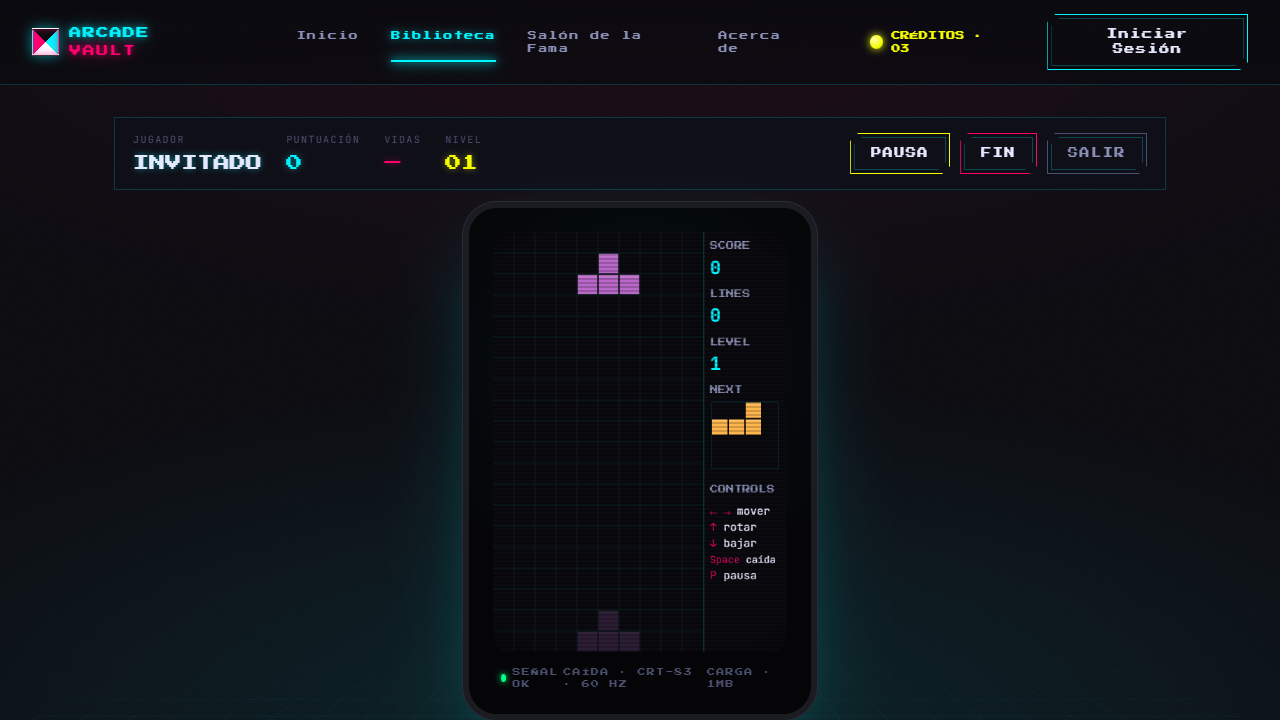
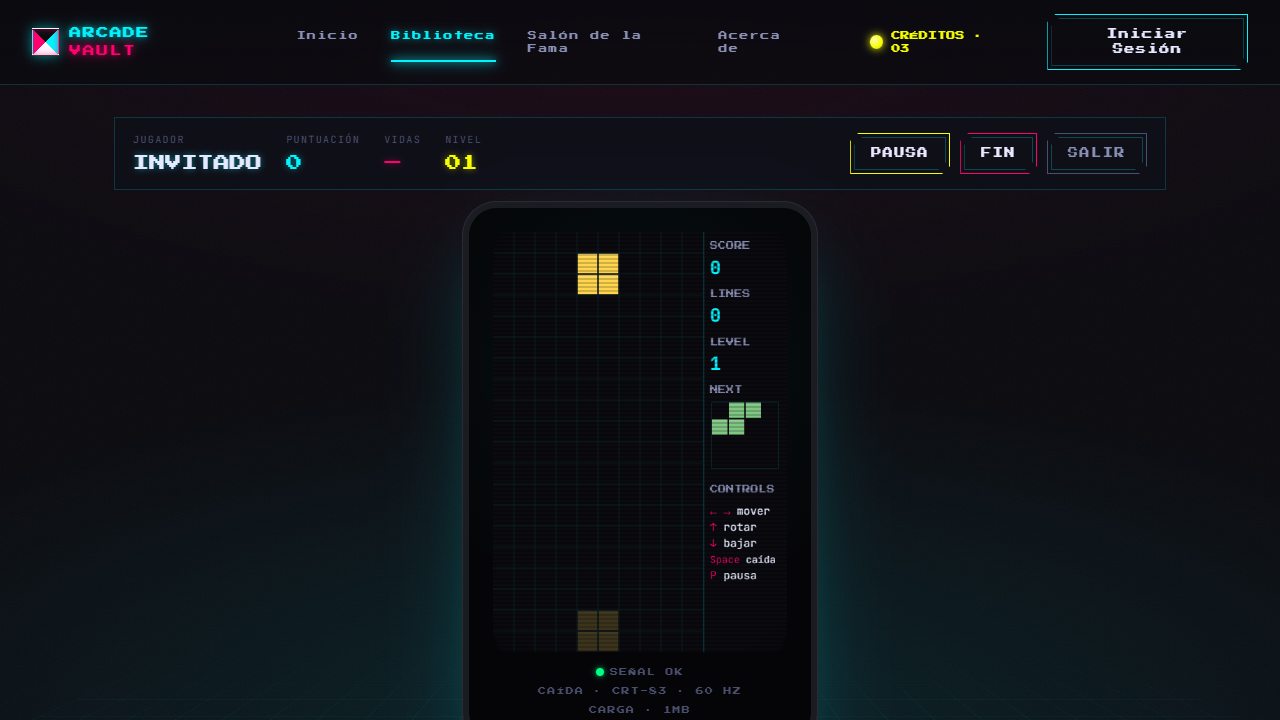
fix(arcade): stack the CRT footer by CRT width and block scroll during the game-over delay

Changed region(s): [[0.3438, 0.825, 0.6562, 1.0], [0.4375, 0.3361, 0.5, 0.4278], [0.5312, 0.55, 0.5938, 0.6111]]

diff --git a/features/player/components/CrtScreen.tsx b/features/player/components/CrtScreen.tsx
@@ -11,15 +11,17 @@ type Props = {
   screenStyle?: CSSProperties;
 };
 
-// Below the player's mobile breakpoint (720px, as .av-player in globals.css) the footer wraps
-// into centered lines with room between them instead of overlapping; desktop keeps the prototype.
-const BOTTOM_MOBILE = "max-[720px]:flex-wrap max-[720px]:justify-center max-[720px]:gap-x-3 max-[720px]:gap-y-1.5 max-[720px]:leading-[1.6]";
-const BOTTOM_ITEM_MOBILE = "max-[720px]:whitespace-nowrap";
+// When the CRT itself is narrow (phones, or a tall real game such as Caída on desktop) the footer
+// wraps into centered lines with room between them instead of crowding; wide CRTs keep the
+// prototype layout. It is a container query on .crt, so it follows the CRT width, not the viewport.
+// Class names must stay literal so Tailwind can find them.
+const BOTTOM_NARROW = "@max-[560px]:flex-wrap @max-[560px]:justify-center @max-[560px]:gap-x-3 @max-[560px]:gap-y-1.5 @max-[560px]:leading-[1.6]";
+const BOTTOM_ITEM_NARROW = "@max-[560px]:whitespace-nowrap";
 
 /** CRT frame; shows the fake animated arena unless a real game is passed as children. */
 export function CrtScreen({ title, paused, children, frameStyle, screenStyle }: Props) {
   return (
-    <div className="crt" style={frameStyle}>
+    <div className="crt @container" style={frameStyle}>
       <div className="crt-screen" style={screenStyle}>
         {children ?? (
           <div className="game-arena">
@@ -39,10 +41,10 @@ export function CrtScreen({ title, paused, children, frameStyle, screenStyle }: 
           </div>
         )}
       </div>
-      <div className={"crt-bottom " + BOTTOM_MOBILE}>
-        <span className={"led " + BOTTOM_ITEM_MOBILE}>SEÑAL OK</span>
-        <span className={BOTTOM_ITEM_MOBILE}>{title} · CRT-83 · 60 HZ</span>
-        <span className={BOTTOM_ITEM_MOBILE}>CARGA · 1MB</span>
+      <div className={"crt-bottom " + BOTTOM_NARROW}>
+        <span className={"led " + BOTTOM_ITEM_NARROW}>SEÑAL OK</span>
+        <span className={BOTTOM_ITEM_NARROW}>{title} · CRT-83 · 60 HZ</span>
+        <span className={BOTTOM_ITEM_NARROW}>CARGA · 1MB</span>
       </div>
     </div>
   );

diff --git a/features/arcade/components/ArcadePlayer.tsx b/features/arcade/components/ArcadePlayer.tsx
@@ -4,6 +4,7 @@ import { useRouter } from "next/navigation";
 import { useEffect, useReducer, useState, useSyncExternalStore } from "react";
 import { arcadeArenaFit, DEFAULT_ARENA_SIZE, type ArenaSize } from "@/features/arcade/lib/arena-fit";
 import { arcadePlayReducer, initialArcadePlayState, isStopped } from "@/features/arcade/lib/play-state";
+import { useBlockGameKeys } from "@/features/arcade/lib/use-keys";
 import type { ArcadeCanvas, GameStats } from "@/features/arcade/model/arcade-game";
 import type { Game } from "@/features/games/model/game";
 import { submitScore } from "@/features/leaderboard/actions/submit-score";
@@ -66,6 +67,9 @@ export function ArcadePlayer({ game, Canvas, arena = DEFAULT_ARENA_SIZE }: Arcad
     const timer = window.setTimeout(() => dispatch({ type: "revealGameOver" }), GAME_OVER_MODAL_DELAY_MS);
     return () => window.clearTimeout(timer);
   }, [state.gameOverPending]);
+
+  // During that delay the canvas no longer reads the keyboard, so keep arrows/space from scrolling.
+  useBlockGameKeys(state.gameOverPending);
 
   const restart = () => {
     dispatch({ type: "restart" });

diff --git a/features/arcade/lib/use-keys.ts b/features/arcade/lib/use-keys.ts
@@ -27,6 +27,22 @@ function createKeyStore() {
 }
 
 /**
+ * While enabled, keeps the arrows and space from scrolling the page without passing them to any
+ * game (e.g. during the game-over delay, when the canvas no longer reads the keyboard).
+ * Ignores events typed into inputs.
+ */
+export function useBlockGameKeys(enabled: boolean) {
+  useEffect(() => {
+    if (!enabled) return;
+    const listener = (e: KeyboardEvent) => {
+      if (!isTextInput(e.target) && GAME_KEYS.has(e.code)) e.preventDefault();
+    };
+    window.addEventListener("keydown", listener);
+    return () => window.removeEventListener("keydown", listener);
+  }, [enabled]);
+}
+
+/**
  * Calls `onKeyDown(code)` on every keydown on window while enabled, including the OS auto-repeat
  * of a held key (games that move one step per event). Ignores events typed into inputs and
  * prevents the page from scrolling with the arrows and space.

diff --git a/docs/evidence/spec-07/README.md b/docs/evidence/spec-07/README.md
@@ -23,7 +23,14 @@ Supabase: the `falling-blocks` row has `max_score` 10 000 000 and `sort_order` 2
 
 ## Findings
 
-1. **The CRT footer crowds on the narrow Caída CRT.** At 1440 px its items run together ("SEÑAL OK CAÍDA · CRT-83 · 60 HZ CARGA · 1MB"). At 1280 px they wrap into ragged two-line blocks. The mobile stacking rule depends on the viewport width, not on the CRT width. Introduced by this spec.
-2. **Space scrolls the page during the 1.5 s game-over delay.** The keyboard listener is disabled once the game ends, so Space and the arrows reach the page (see the game-over capture). This also applies to Asteroides.
+1. ✅ **Fixed in this PR.** **The CRT footer crowded on the narrow Caída CRT.** At 1440 px its items run together ("SEÑAL OK CAÍDA · CRT-83 · 60 HZ CARGA · 1MB"). At 1280 px they wrap into ragged two-line blocks. The mobile stacking rule depends on the viewport width, not on the CRT width. Introduced by this spec.
+2. ✅ **Fixed in this PR.** **Space scrolled the page during the 1.5 s game-over delay.** The keyboard listener is disabled once the game ends, so Space and the arrows reach the page (see the game-over capture). This also applies to Asteroides.
 3. **"Í" renders as a wrong glyph in the pixel font** ("CAÍDA" shows as "CA‡DA" in the Salón tab, the detail title and the CRT footer). The pinned Press Start 2P subset lacks the glyph. This is pre-existing: the catalog title already rendered this way before this spec.
 4. When FIN is pressed during play, the canvas also shows "PAUSA" behind the modal, because it only receives `paused`. This is cosmetic.
+
+## Fixes verified (Playwright 10/10)
+
+- **Footer:** `.crt` is now a container (`@container`), and the footer stacks below 560 px of **CRT** width (`@max-[560px]:`) instead of viewport width.
+  - Caída: 2 rows at 1440 px, 3 rows at 1280 and 390 px, with no overlap ([`player/desktop-1440/app.png`](player/desktop-1440/app.png), [`player/desktop-1280/app.png`](player/desktop-1280/app.png)).
+  - Asteroides (848 / 608 px) and the simulated games (1052 px) keep the single 12 px prototype row.
+- **Scroll:** `useBlockGameKeys` (in `use-keys.ts`) prevents arrows/Space from scrolling while `gameOverPending`. Pressing Space and ↓ during the delay keeps `scrollY` at 0 in both games, and typing a space in the modal still works.
